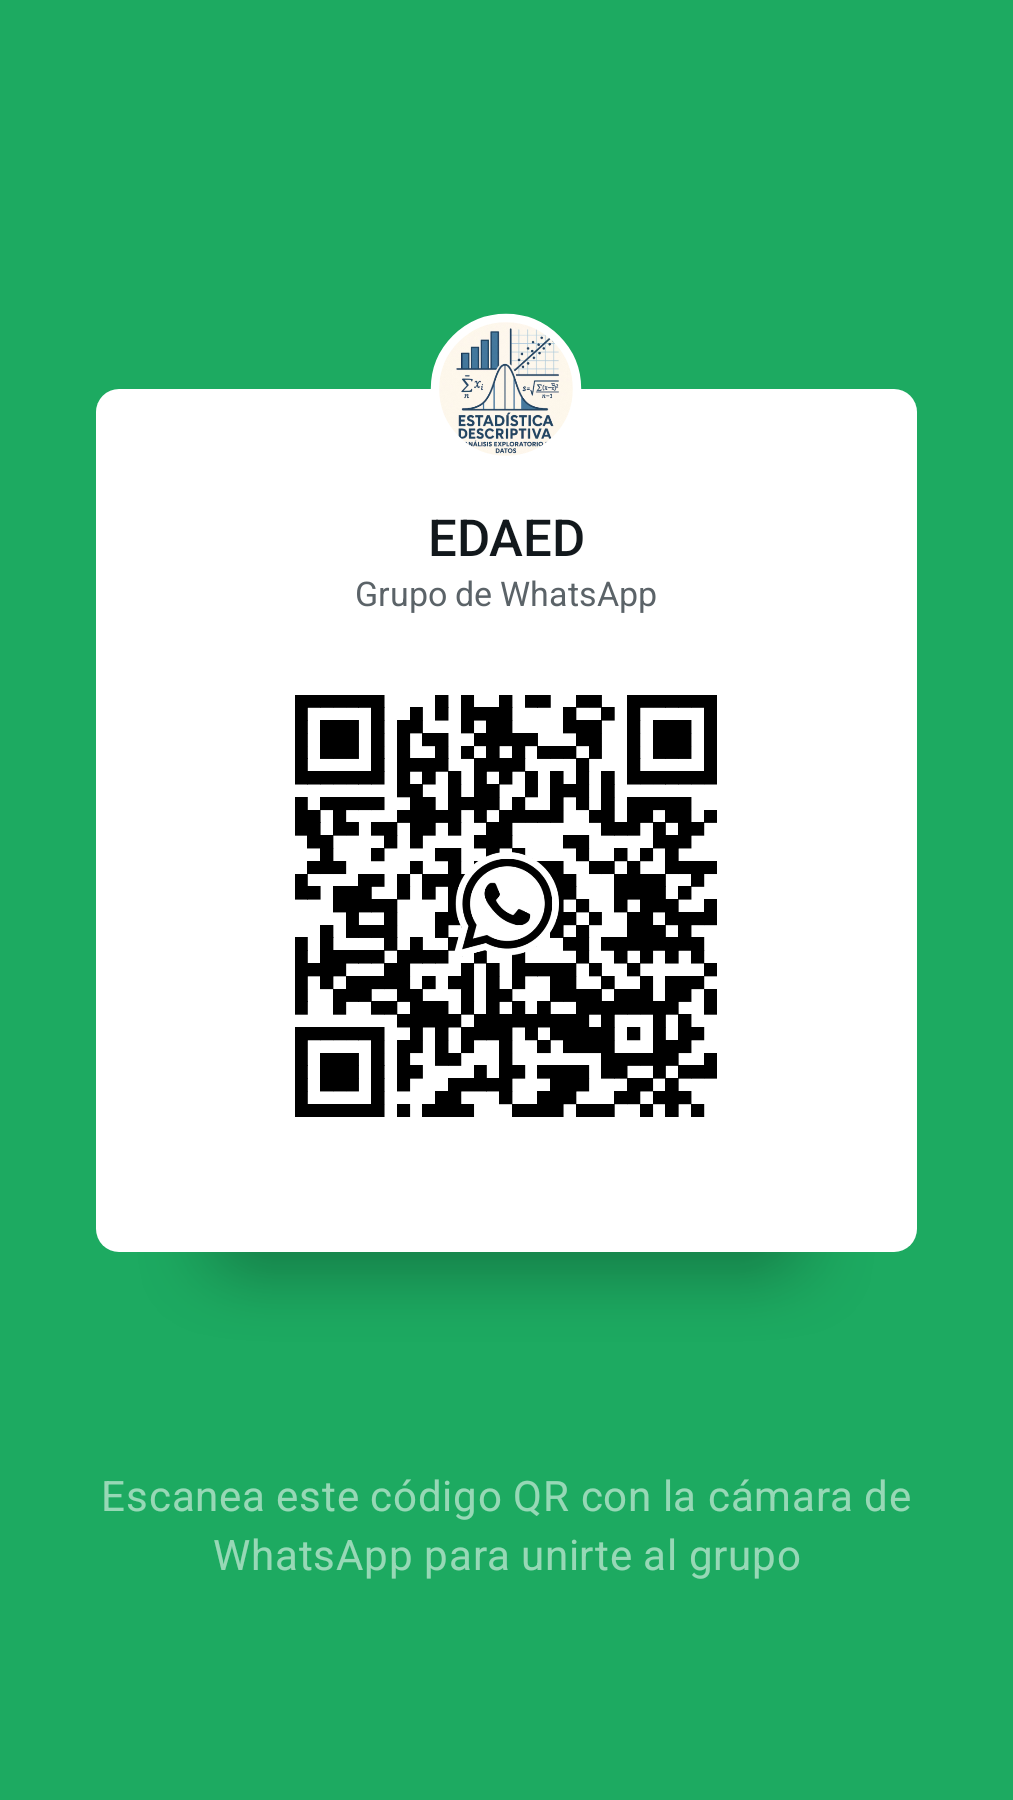
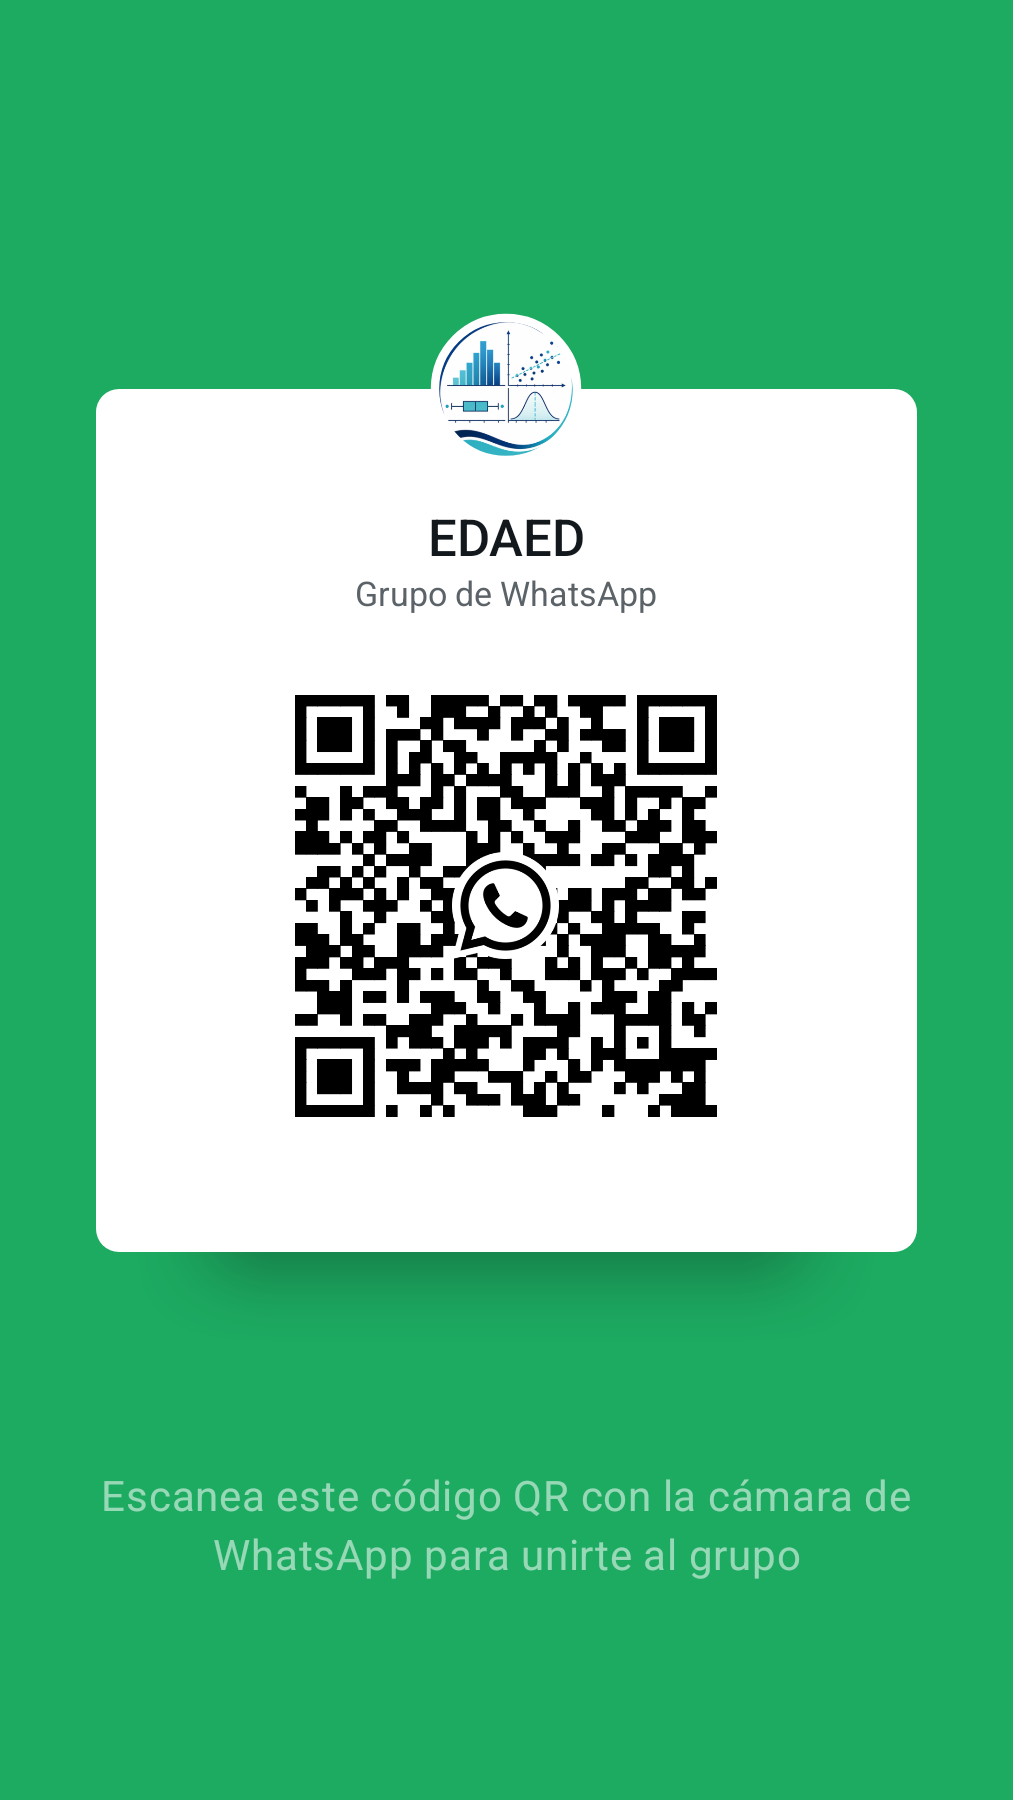
Actuilza EDAED

Changed region(s): [[0.2754, 0.3733, 0.7038, 0.6222], [0.4284, 0.1867, 0.5508, 0.28]]

diff --git a/_estadistica-descriptiva/index.md b/_estadistica-descriptiva/index.md
@@ -8,8 +8,7 @@ order: 0
 ## Descripción del curso
 
 El curso desarrolla competencias para explorar, limpiar, describir y comunicar hallazgos en datos reales. Se enfatiza el análisis exploratorio (EDA) como un
-proceso iterativo basado en visualización, transformación y modelos ligeros para comprensión (no inferencia formal). Se trabaja con reportes
-reproducibles.
+proceso iterativo basado en visualización, transformación y modelos ligeros para comprensión (no inferencia formal). Se trabaja con reportes reproducibles.
 
 ## Objetivo general:
 
@@ -36,12 +35,62 @@ Manejar los principios básicos de la estadística descriptiva y desarrollar hab
 
 ## Contenido del curso:
 
--   El proceso investigativo y el uso de los datos.
--   Planeación de toma de datos con fines investigativos.
--   Conceptos básicos del análisis exploratorio de datos.
--   Visualización e interpretación de datos.
--   Entendimiento de la naturaleza de los datos.
--   Estadística descriptiva, medidas de tendencia central, medidas de dispersión, tablas de frecuencia, etc.
+El proceso investigativo y el uso de los datos
+
+  - La pregunta de investigación como eje rector: cómo definir objetivos claros y comprobables.
+  - Datos primarios vs. datos secundarios: ventajas, limitaciones y fuentes confiables (bases de datos oficiales, repositorios académicos).
+  - Sesgos comunes en la investigación (sesgo de selección, sesgo de memoria, sesgo de publicación) y cómo identificarlos antes de tocar los datos.
+  - Ética y privacidad en el manejo de datos (anonimización, consentimiento informado).
+
+Planeación de toma de datos con fines investigativos
+
+  - Diseños muestrales básico: muestreo probabilístico (aleatorio simple)
+  - Determinación del tamaño de muestra de manera intuitiva (introducción a fórmulas básicas y factores que influyen: margen de error, nivel de confianza, variabilidad esperada).
+  - Instrumentos de recolección: encuestas, cuestionarios, mediciones experimentales, scraping web. Criterios para diseñar preguntas no sesgadas.
+  - Prueba piloto: importancia de validar el instrumento antes de la recolección masiva.
+
+Conceptos básicos del análisis exploratorio de datos (EDA)
+
+  - Filosofía del EDA (John Tukey): explorar sin hipótesis rígidas predefinidas, dejar que los datos "hablen".
+  - Estructura de los datos: identificar filas (registros/individuos) y columnas (variables).
+  - Detección y manejo de valores atípicos (outliers): métodos gráficos (boxplots) y numéricos (rango intercuartílico). Decidir si eliminarlos, imputarlos o mantenerlos según el contexto.
+
+Visualización e interpretación de datos
+
+  - Gramática de los gráficos (capas, escalas, estética),
+  - Gráficos univariados: histograma, diagrama de caja (boxplot), diagrama de violín y gráfico de densidad.
+  - Gráficos bivariados/multivariados: diagrama de dispersión (scatter plot), matriz de correlación, gráficos de barras agrupadas y mapas de calor (heatmaps).
+  - Principios de percepción visual: evitar gráficos engañosos (escalas truncadas, mal uso de 3D, colores inapropiados) y aplicar la relación "dato-tinta" (Tufte).
+
+Entendimiento de la naturaleza de los datos
+
+  - Niveles o escalas de medición: Nominal (categorías sin orden), Ordinal (categorías con orden), Intervalo (diferencias significativas, sin cero absoluto) y Razón (cero absoluto). Esto es clave porque determina qué estadísticos y gráficos son válidos.
+  - Clasificación de variables: Cualitativas (nominales/ordinales) vs. Cuantitativas (discretas/continuas).
+  - Estructura temporal y espacial de los datos: series de tiempo (tendencias, estacionalidad) vs. datos transversales (cross-section) vs. datos de panel.
+
+Estadística descriptiva (medidas, tablas de frecuencia, etc.)
+
+  - Tablas de frecuencia: absolutas, relativas, porcentuales, acumuladas. Agrupación en intervalos de clase (regla de Sturges, etc.).
+  - Medidas de tendencia central: media, mediana y moda. ¿Cuándo es más robusta la mediana? (distribuciones asimétricas).
+  - Medidas de posición: cuartiles, deciles, percentiles (fundamentales para entender la dispersión y construir boxplots).
+  - Medidas de dispersión: rango, varianza, desviación estándar, rango intercuartílico (IQR) y coeficiente de variación.
+  - Forma de la distribución: asimetría (sesgo positivo/negativo) y curtosis (apuntalamiento o colas pesadas). Introducción al análisis bivariado con covarianza y correlación de Pearson (y su versión no paramétrica, Spearman).
+
+Limpieza y transformación de datos (Data Wrangling)
+  - En la práctica, el 70-80% del tiempo se va en preparar datos. 
+  - Enseñar a filtrar, ordenar, fusionar tablas, crear variables derivadas (por ejemplo, Índice de Masa Corporal a partir de peso y talla) y estandarizar/normalizar escalas. 
+
+Introducción a la probabilidad y distribuciones teóricas 
+  - Sirve como puente hacia la estadística inferencial. 
+  - Cubrir conceptos básicos de probabilidad, variable aleatoria y las distribuciones normal, t-Student y chi-cuadrado. Esto da sustento para entender por qué ciertas medidas descriptivas son útiles. 
+ 
+Análisis exploratorio multivariado (introductorio) No limitarse a lo univariado/bivariado. 
+  - Incluir conceptos como análisis de conglomerados jerárquicos (clustering básico) o análisis de componentes principales (ACP) de forma intuitiva y gráfica, para que los estudiantes vean patrones en múltiples dimensiones. 
+ 
+Comunicación de resultados y "Storytelling con datos"
+
+  - Elaborar informes ejecutivos o dashboards (Tabla de frecuencias + gráfico + interpretación en lenguaje coloquial). Enseñar a redactar hallazgos sin tecnicismos excesivos, enfocándose en el público objetivo (investigador, cliente o tomador de decisiones). |
+
 
 
 ## Metodología
